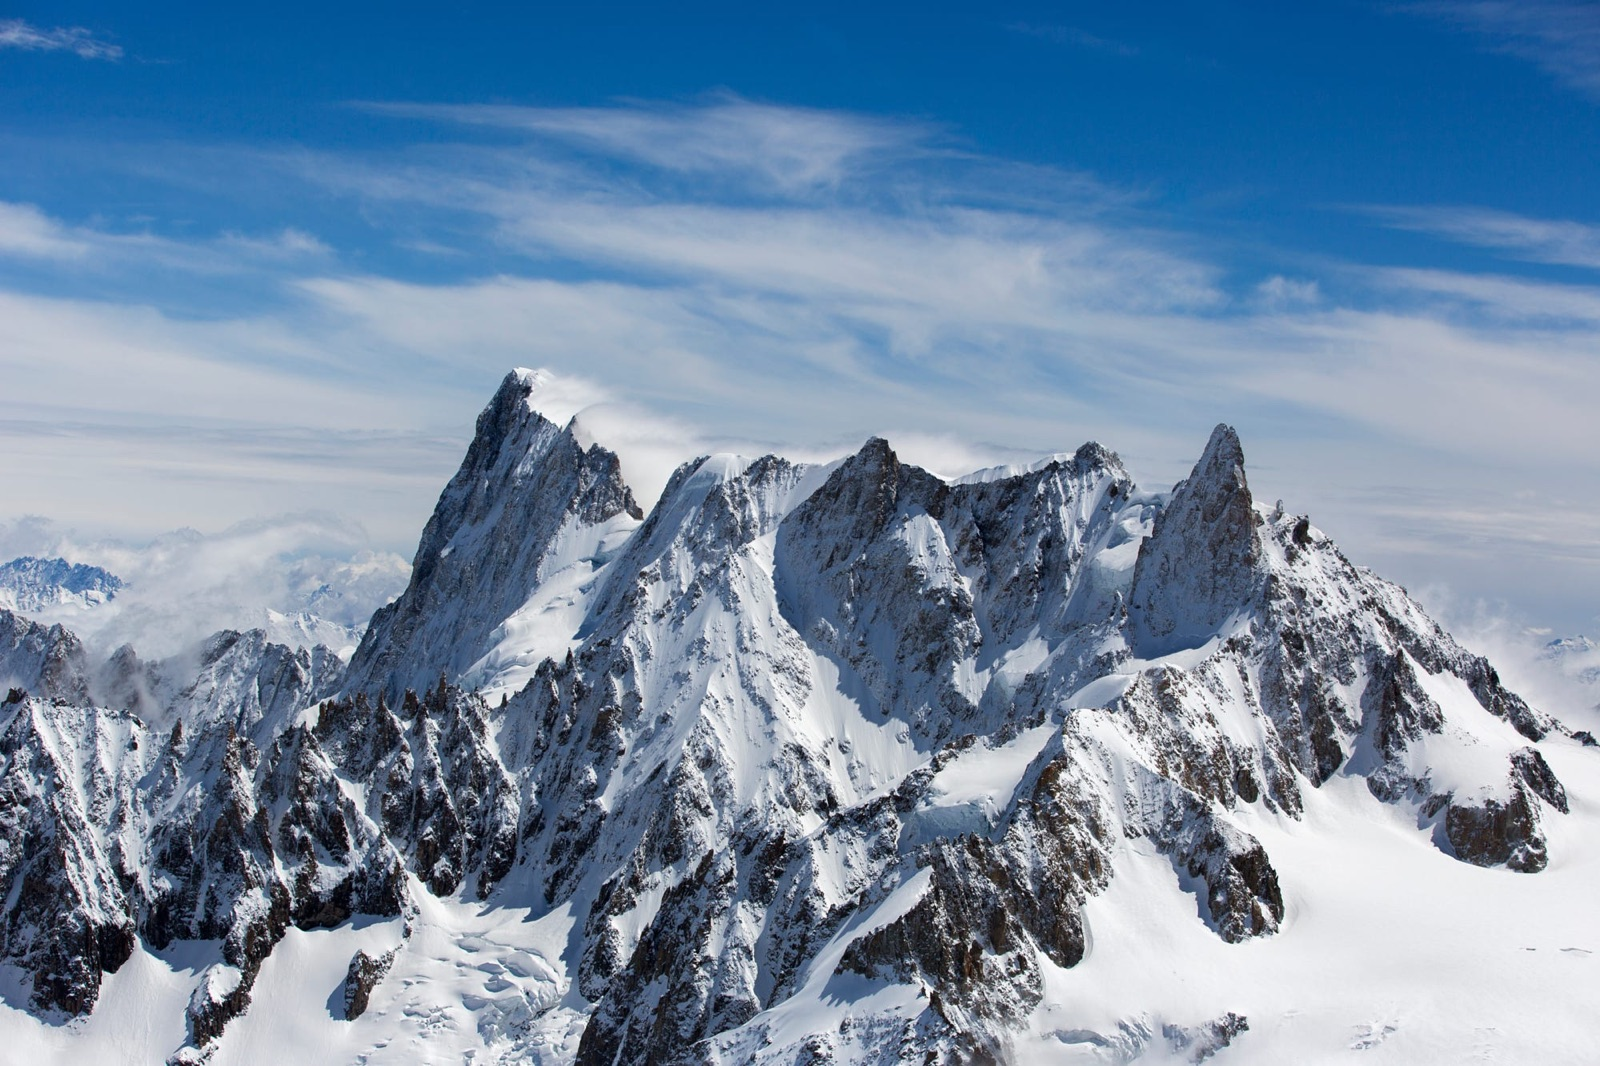
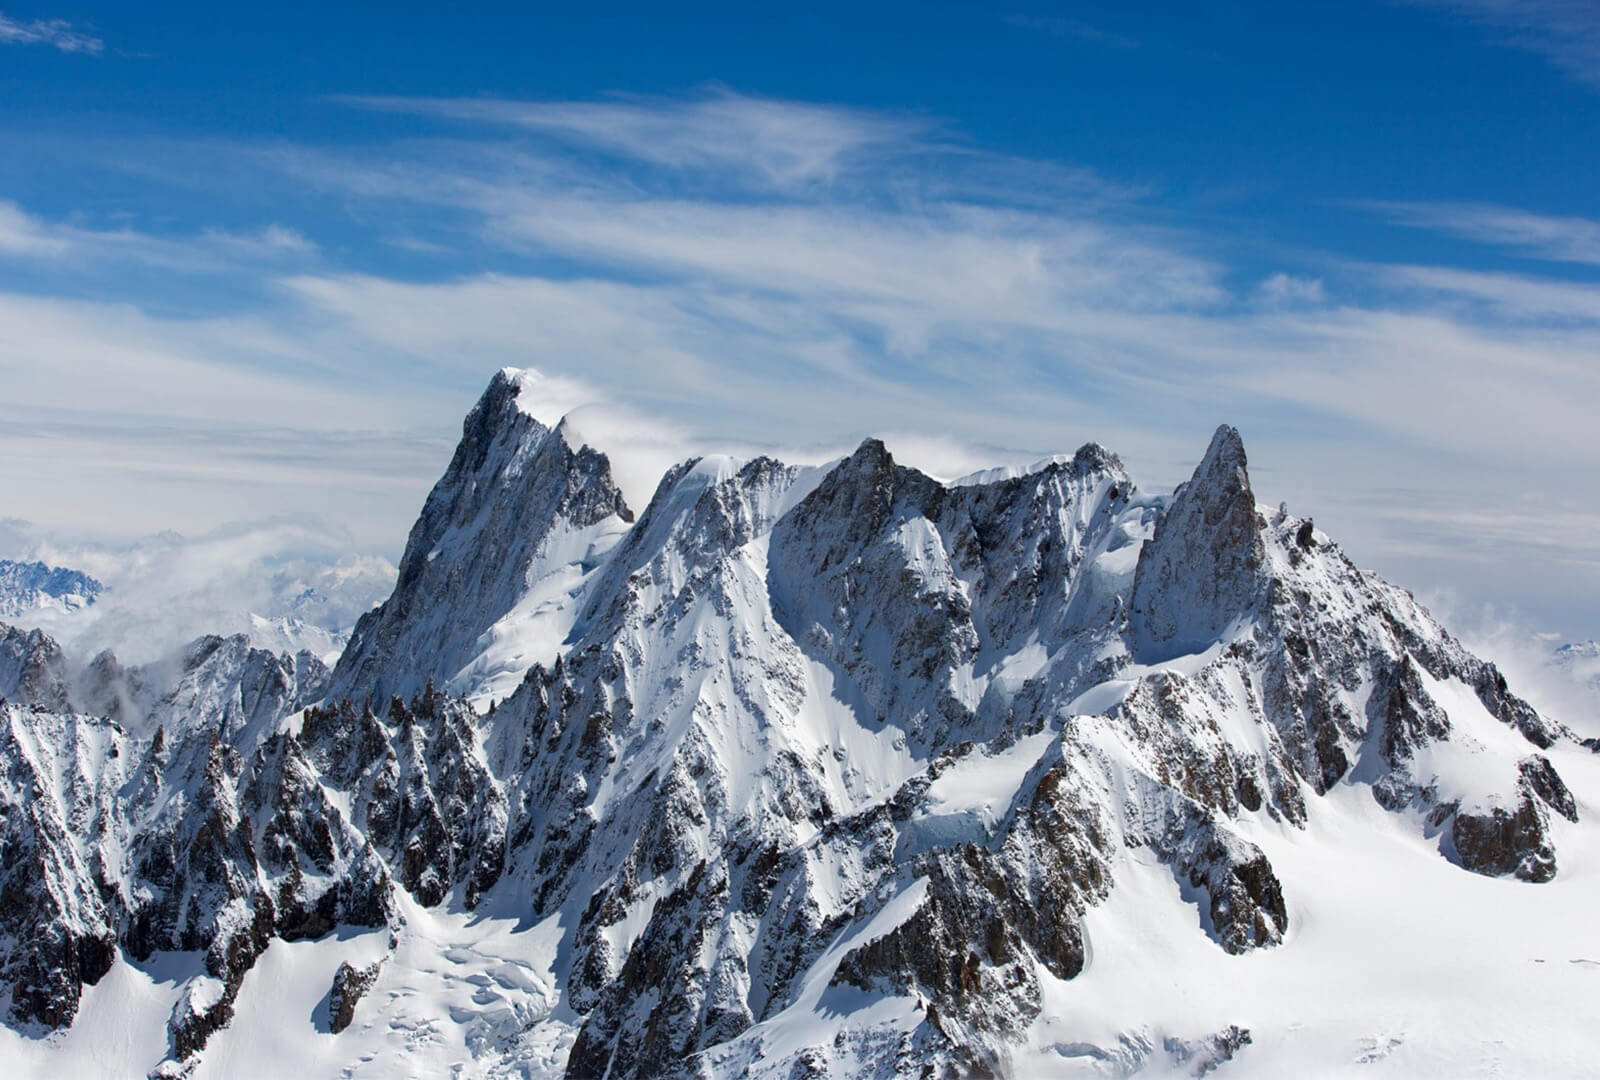
Optimisation des images (réduction de taille) Modif du CSS pur le background header

diff --git a/css/main.css b/css/main.css
@@ -1,9 +1,12 @@
 #header {
     height: 300px;
-    background-image: url("../img/header.jpg");
-    background-position: 50% 40%;
+    background: url("../img/header.jpg");
     background-repeat: no-repeat;
-    /*background-color: #ecf0f1;*/
+    background-position: 50% 40%;
+    -webkit-background-size: cover;
+    -moz-background-size: cover;
+    -o-background-size: cover;
+    background-size: cover;
     display: flex;
     align-items: center;
     justify-content: center;
